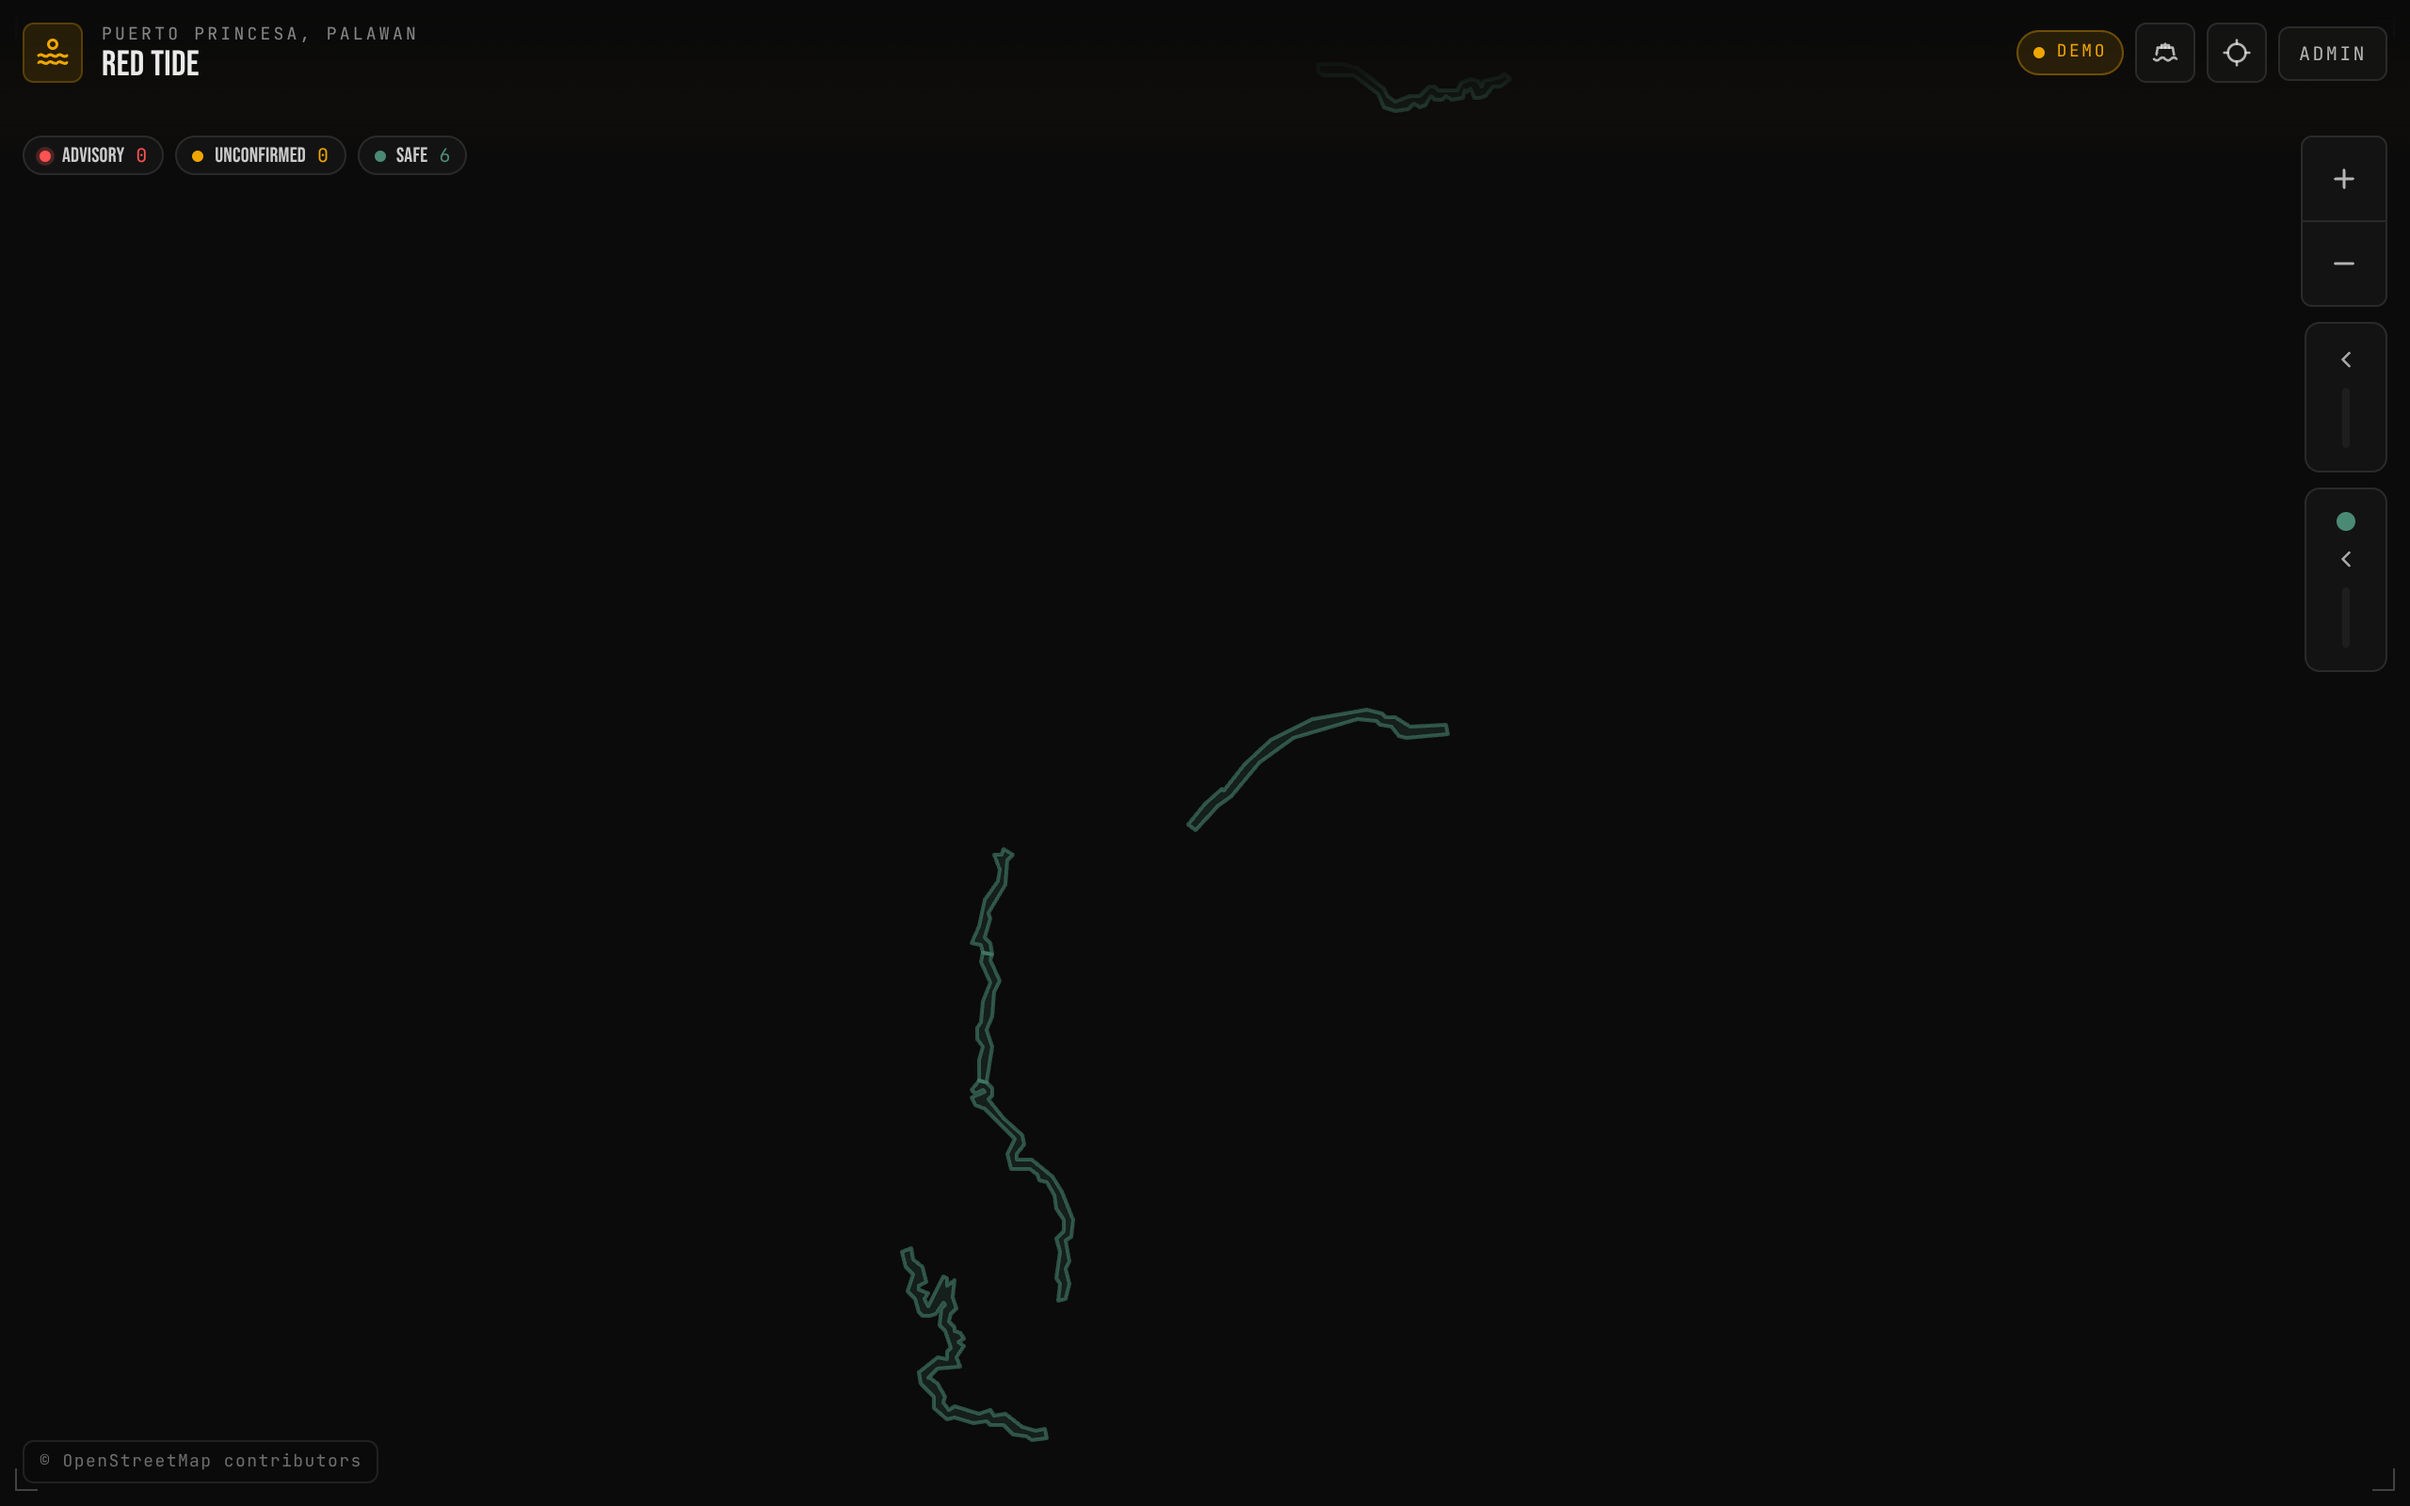
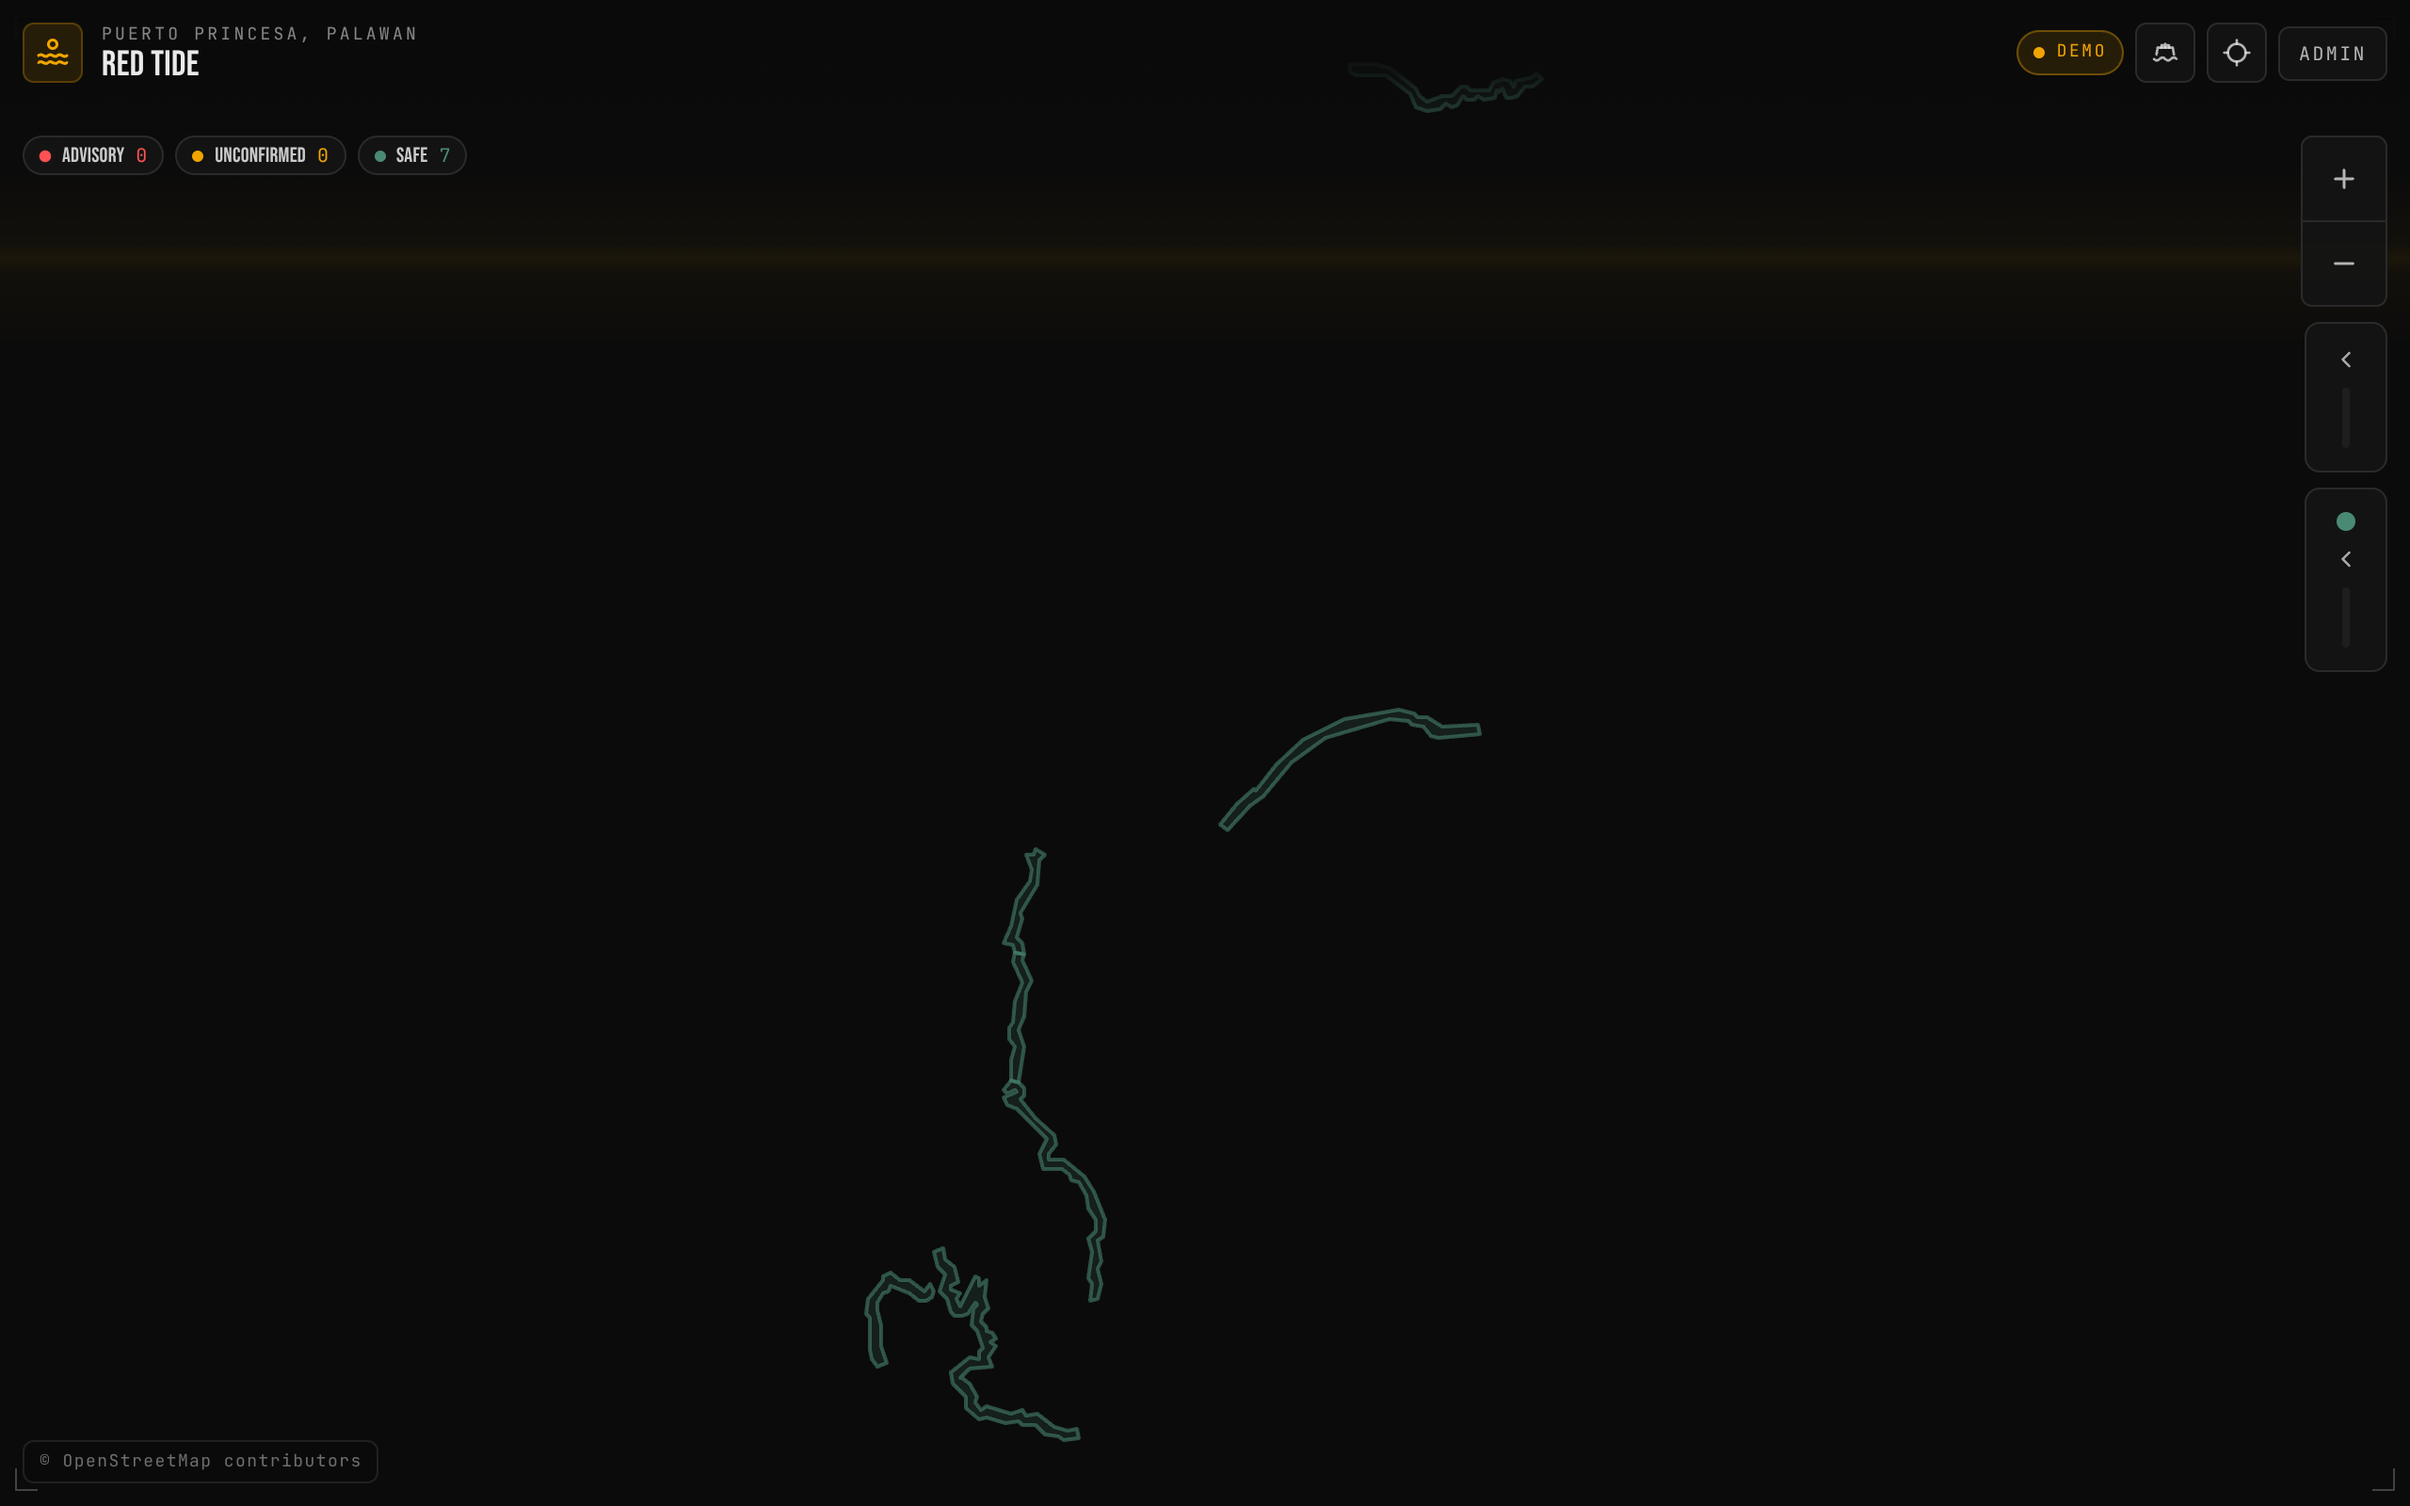
Inlet verification: pin irawan bbox, refresh drawer shots on green run
- zones.test.ts: explicit bounding-box pin for the irawan footprint
  (lat 9.744728–9.778611, lng 118.691778–118.716092), failing on any
  vertex edit that shifts the 7th zone's footprint.
- docs/map-drawers-shots: refreshed by a green 239-check regression run
  against the 7-zone build (no UI changes — render deltas only).

Independent re-verification in this pass: generate-zones regeneration
is byte-identical to committed polygons; all 190+37 landward vertices
within 0.08 m of actual OSM cache nodes; turf intersect 0.00 m² on all
21 zone pairs; typecheck + 255 vitest + build green.

diff --git a/src/data/zones.test.ts b/src/data/zones.test.ts
@@ -303,6 +303,18 @@ describe('SEED_ZONES', () => {
       ).toBe(false)
     }
   })
+
+  it('pins the irawan footprint to the bay-mouth far shore', () => {
+    // Explicit bbox for the 7th zone: the Iwahig approach (S) to the
+    // estuary's east wall (N), valley shore (W) to the bay-mouth water (E).
+    // Fails if a vertex edit ever shifts the zone's footprint.
+    const irawan = SEED_ZONES.find((zone) => zone.id === 'irawan')
+    expect(irawan, 'irawan must exist').toBeDefined()
+    const lats = irawan!.polygon.map(([lat]) => lat)
+    const lngs = irawan!.polygon.map(([, lng]) => lng)
+    expect([Math.min(...lats), Math.max(...lats)]).toEqual([9.744728, 9.778611])
+    expect([Math.min(...lngs), Math.max(...lngs)]).toEqual([118.691778, 118.716092])
+  })
 })
 
 // --------------------------------------------------------------------------
